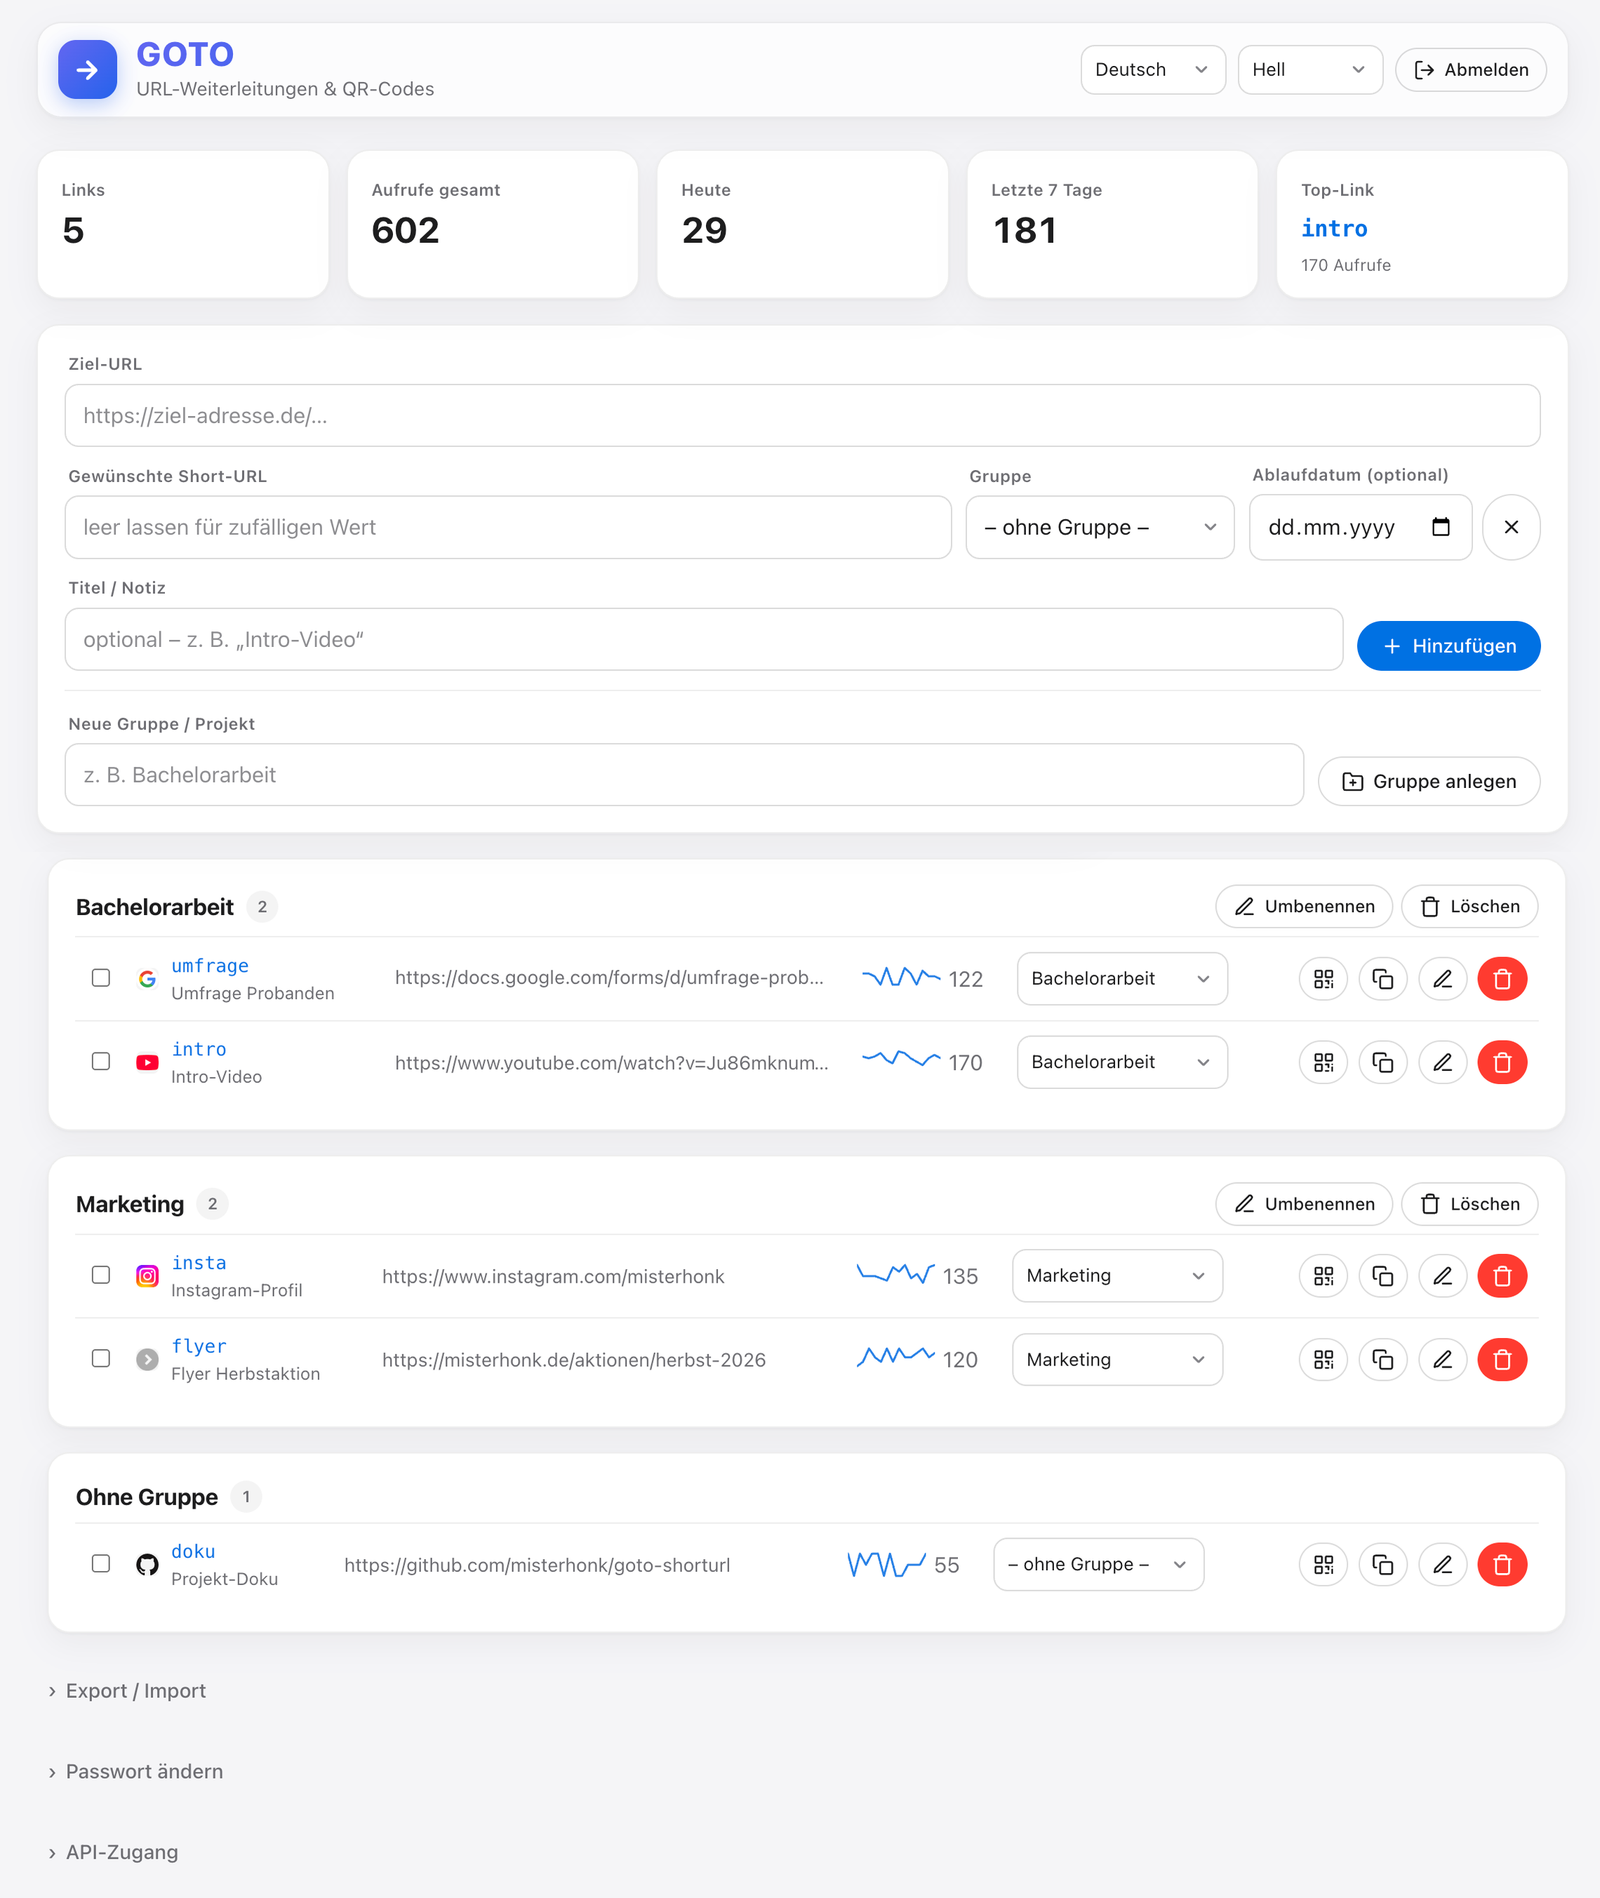
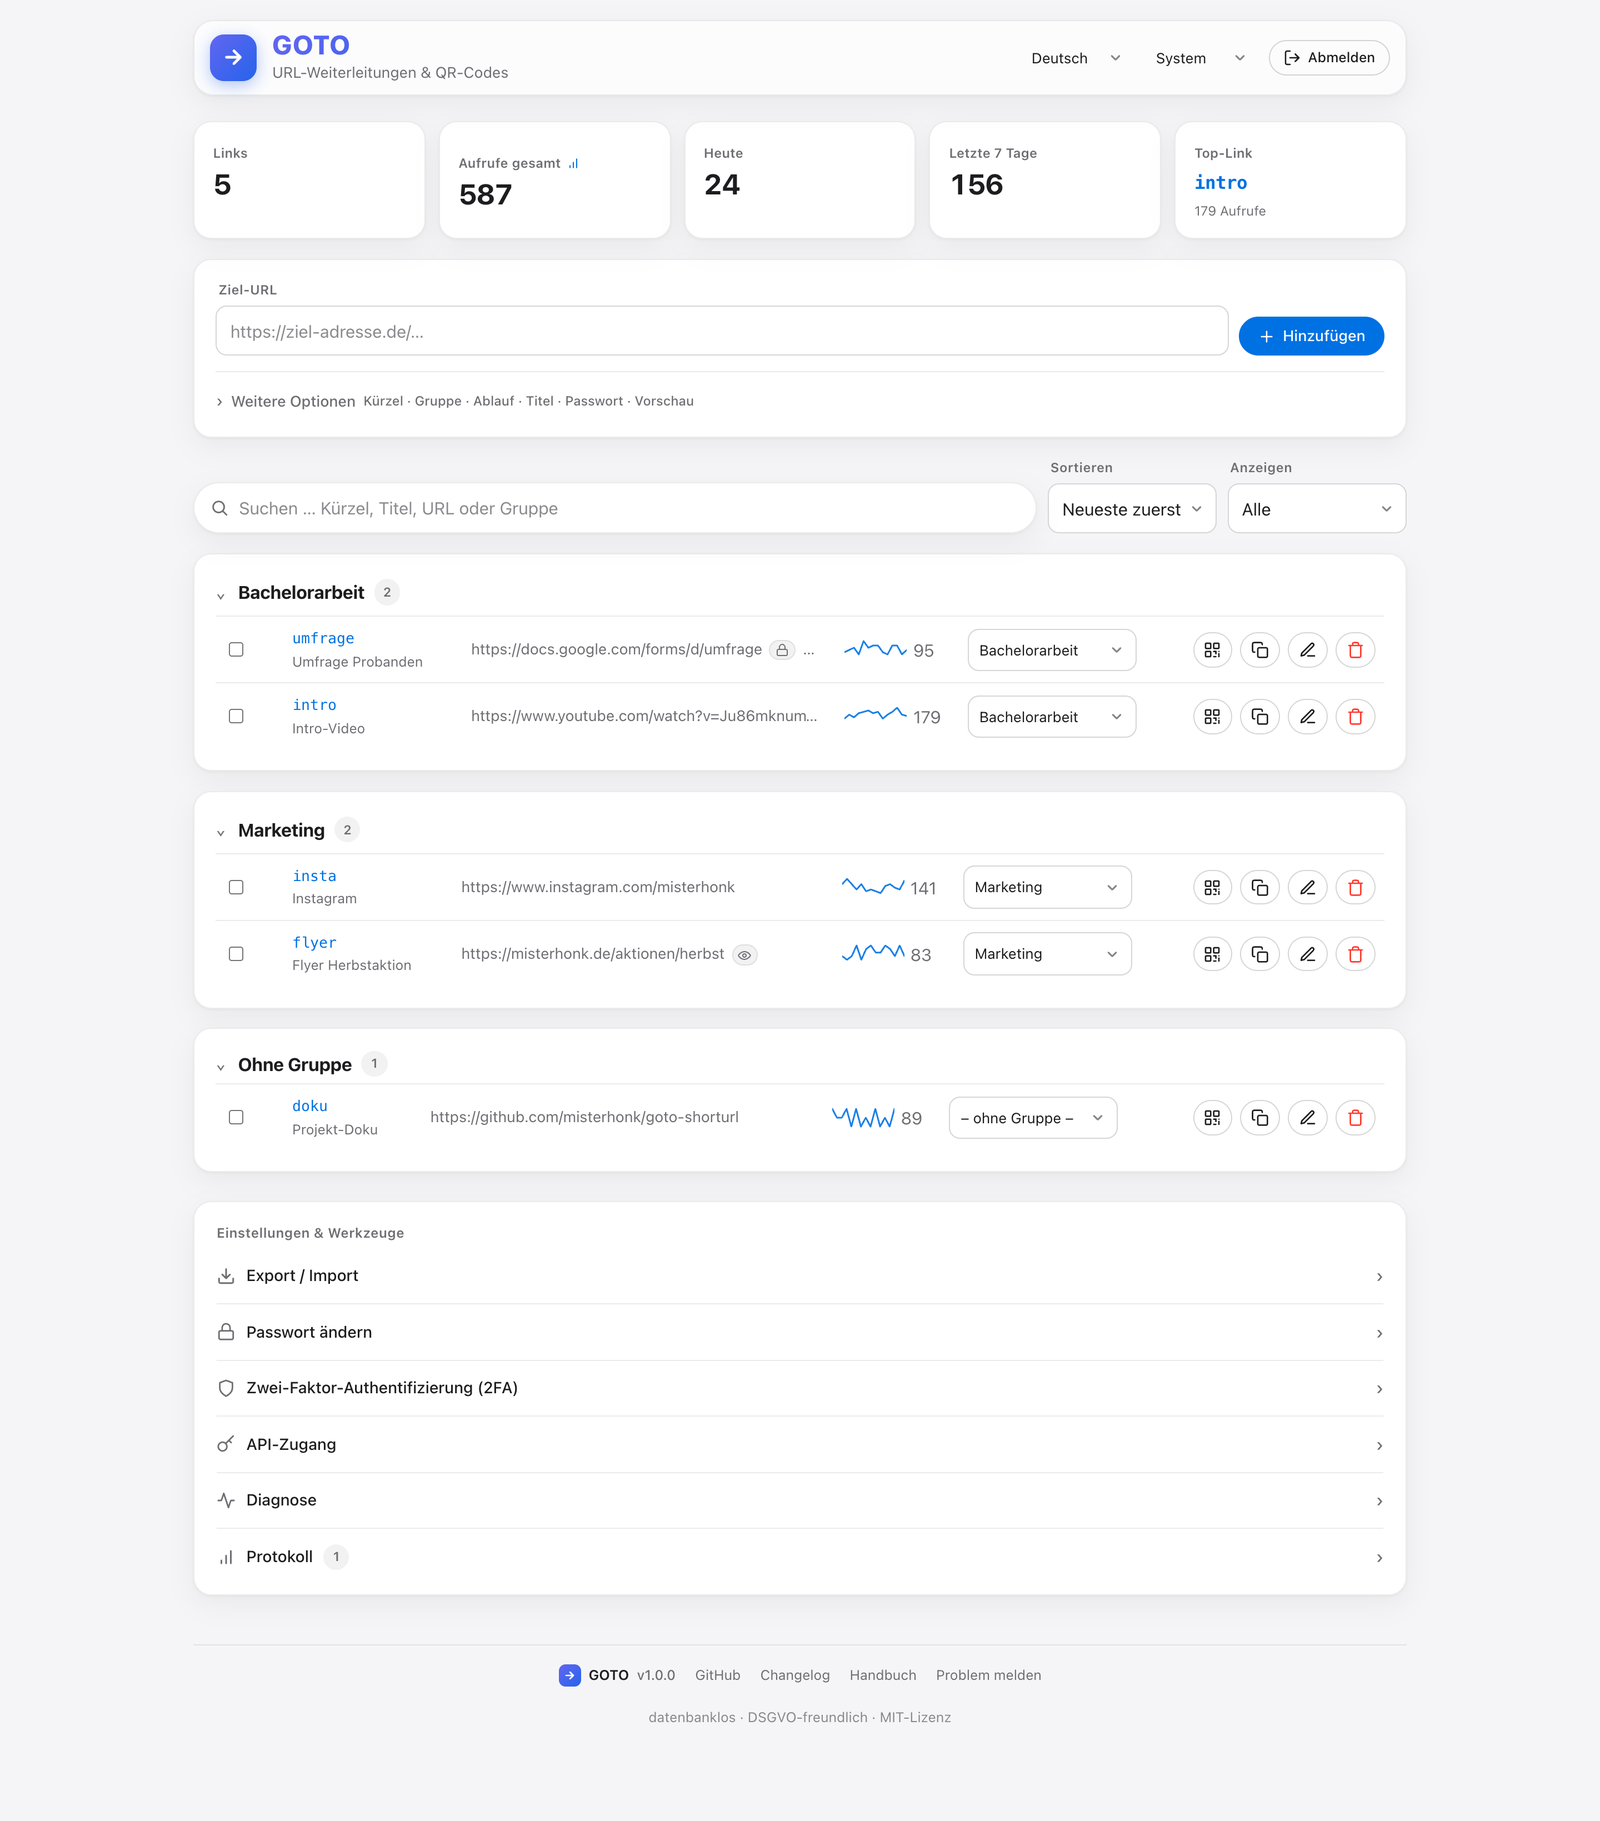
Release 1.0.0: neuer Screenshot, Doku aktualisiert, Version 1.0.0
D (1.0-Politur):
- GOTO_VERSION -> 1.0.0.
- screenshot.png neu (aktuelles Apple-Look-UI mit Statistik-Kacheln,
  einklappbaren Gruppen, Lock-/Eye-Chips, Toolbox inkl. Protokoll,
  Footer v1.0.0; 1600px, Demo-Daten).
- README: Funktionsliste auf 1.0-Stand (2FA+Recovery, Geräte, Protokoll,
  CRUD-API, Voll-Backup, Toter-Link-Check, Shortcuts, einklappbare
  Gruppen), Datei-Tabelle um .ht_audit/.ht_linkcheck/backups ergänzt.
- CHANGELOG: [Unreleased] -> [1.0.0] mit Meilenstein-Einleitung.

diff --git a/lib.php b/lib.php
@@ -18,7 +18,7 @@ declare(strict_types=1);
  *      } } }
  * ------------------------------------------------------------------ */
 
-const GOTO_VERSION = '0.9.0';
+const GOTO_VERSION = '1.0.0';
 
 @ini_set('display_errors', '0');   // Produktion: keine PHP-Fehler an Besucher ausgeben
 

diff --git a/README.md b/README.md
@@ -40,7 +40,10 @@ und zählt Aufrufe DSGVO-konform — alles in ein paar Dateien, ohne Datenbank.
   wahlweise **Weiterleitung auf eine Ersatz-URL** statt der 410-Seite)
 - **Titel-Autofill**: Knopf holt den `<title>` der Zielseite (opt-in, SSRF-geschützt)
 - **Duplikat-Hinweis** beim Anlegen, wenn die Ziel-URL schon existiert
-- **Geräte-Verwaltung**: aktive „Angemeldet bleiben"-Geräte einsehen und abmelden
+- **Zwei-Faktor-Authentifizierung (TOTP)** fürs Admin, inkl. einmaliger
+  **Wiederherstellungs-Codes**; **Geräte-Verwaltung** für „Angemeldet
+  bleiben"-Geräte (einsehen und abmelden)
+- **Aktivitäts-Protokoll** (Anmeldungen, Änderungen; keine IP-Adressen)
 - **Update-Hinweis** in der Diagnose (opt-in, prüft die neueste GitHub-Version)
 - **Passwortgeschützte Links**: optional je Link ein Passwort – Besucher sehen
   erst eine Passwort-Seite, dann die Weiterleitung (bcrypt, mit Brute-Force-Sperre)
@@ -51,10 +54,13 @@ und zählt Aufrufe DSGVO-konform — alles in ein paar Dateien, ohne Datenbank.
 - **Tages-Backups**: automatisch beim ersten Speichern des Tages
   (`backups/`, 7 Generationen) zusätzlich zur `.bak`-Sicherung
 - **Diagnose** im Admin: Ampel-Selbsttest (Schreibrechte, PHP, Rewrite,
-  Dateischutz, HTTPS, Backups) – praktisch nach dem Deployment
-- **Live-Suche**, **Bulk-Aktionen** (verschieben / löschen / Zähler zurücksetzen)
-- **Import / Export** als JSON
-- **HTTP-API** zum Anlegen von Links per Skript, abgesichert über **API-Token**
+  Dateischutz, HTTPS, Backups) und **Toter-Link-Prüfung** aller Ziele
+- **Live-Suche**, **Sortieren/Filtern** (gemerkt), **einklappbare Gruppen**,
+  **Bulk-Aktionen**, Tastatur-Shortcuts (`/` Suche, `n` neuer Link)
+- **Import / Export** als JSON, **CSV-Import**, **Voll-Backup** (mit Klicks &
+  Papierkorb) für den Server-Umzug
+- **HTTP-API (CRUD)** zum Anlegen, Auslesen, Ändern und Löschen von Links per
+  Skript, abgesichert über **API-Token**
 - **Social-Media-Vorschau**: beim Teilen eines Kurzlinks (WhatsApp, Slack, …)
   zeigt die Vorschau den **Titel aus dem Eintrag** samt GOTO-Vorschaubild
 - **Favicon & Theme-Color** im Marken-Design, gestaltete 404/410-Seiten
@@ -83,7 +89,10 @@ und zählt Aufrufe DSGVO-konform — alles in ein paar Dateien, ohne Datenbank.
 | `.ht_attempts.json` | Login-Fehlversuche (Rate-Limiting) *(automatisch)* |
 | `.ht_tokens.json` | „Angemeldet bleiben"-Token, nur gehasht *(automatisch)* |
 | `.ht_apitokens.json` | API-Token, nur gehasht *(automatisch)* |
-| `.ht_auth.json` | Passwort-Hash (vom Setup gesetzt) *(automatisch)* |
+| `.ht_auth.json` | Passwort-Hash, 2FA-Secret & Recovery-Hashes *(automatisch)* |
+| `.ht_audit.json` | Aktivitäts-Protokoll *(automatisch)* |
+| `.ht_linkcheck.json` | Ergebnisse der Toter-Link-Prüfung *(automatisch)* |
+| `backups/` | Tägliche `urls.json`-Sicherungen, 7 Generationen *(automatisch)* |
 
 Es wird **keine Datenbank** benötigt — alle Daten liegen in JSON-Dateien.
 

diff --git a/CHANGELOG.md b/CHANGELOG.md
@@ -5,6 +5,13 @@ Alle nennenswerten Änderungen an GOTO. Format orientiert sich an
 
 ## [Unreleased]
 
+## [1.0.0] – 2026-07-10
+
+Erste stabile Version. GOTO ist ein vollständiger, datenbankloser
+URL-Shortener & QR-Generator mit Admin-UI im Apple-Look, CRUD-API, 2FA,
+Statistik und Server-Support für Apache/nginx/Caddy. Aktualisierter
+Screenshot; README/QUICKSTART auf den aktuellen Stand gebracht.
+
 ### Hinzugefügt
 - **Kopier-Knopf im „angelegt"-Toast:** nach dem Anlegen eines Links steht der
   Kurzlink direkt zum Kopieren im Toast (bleibt länger stehen).
@@ -245,7 +252,8 @@ Alle nennenswerten Änderungen an GOTO. Format orientiert sich an
   Drag & Drop, Live-Suche sowie Import/Export.
 - Datenbanklos – alle Daten in JSON-Dateien.
 
-[Unreleased]: https://github.com/misterhonk/goto-shorturl/compare/v0.9.0...HEAD
+[Unreleased]: https://github.com/misterhonk/goto-shorturl/compare/v1.0.0...HEAD
+[1.0.0]: https://github.com/misterhonk/goto-shorturl/compare/v0.9.0...v1.0.0
 [0.9.0]: https://github.com/misterhonk/goto-shorturl/compare/v0.8.0...v0.9.0
 [0.8.0]: https://github.com/misterhonk/goto-shorturl/compare/v0.7.1...v0.8.0
 [0.7.1]: https://github.com/misterhonk/goto-shorturl/compare/v0.7.0...v0.7.1